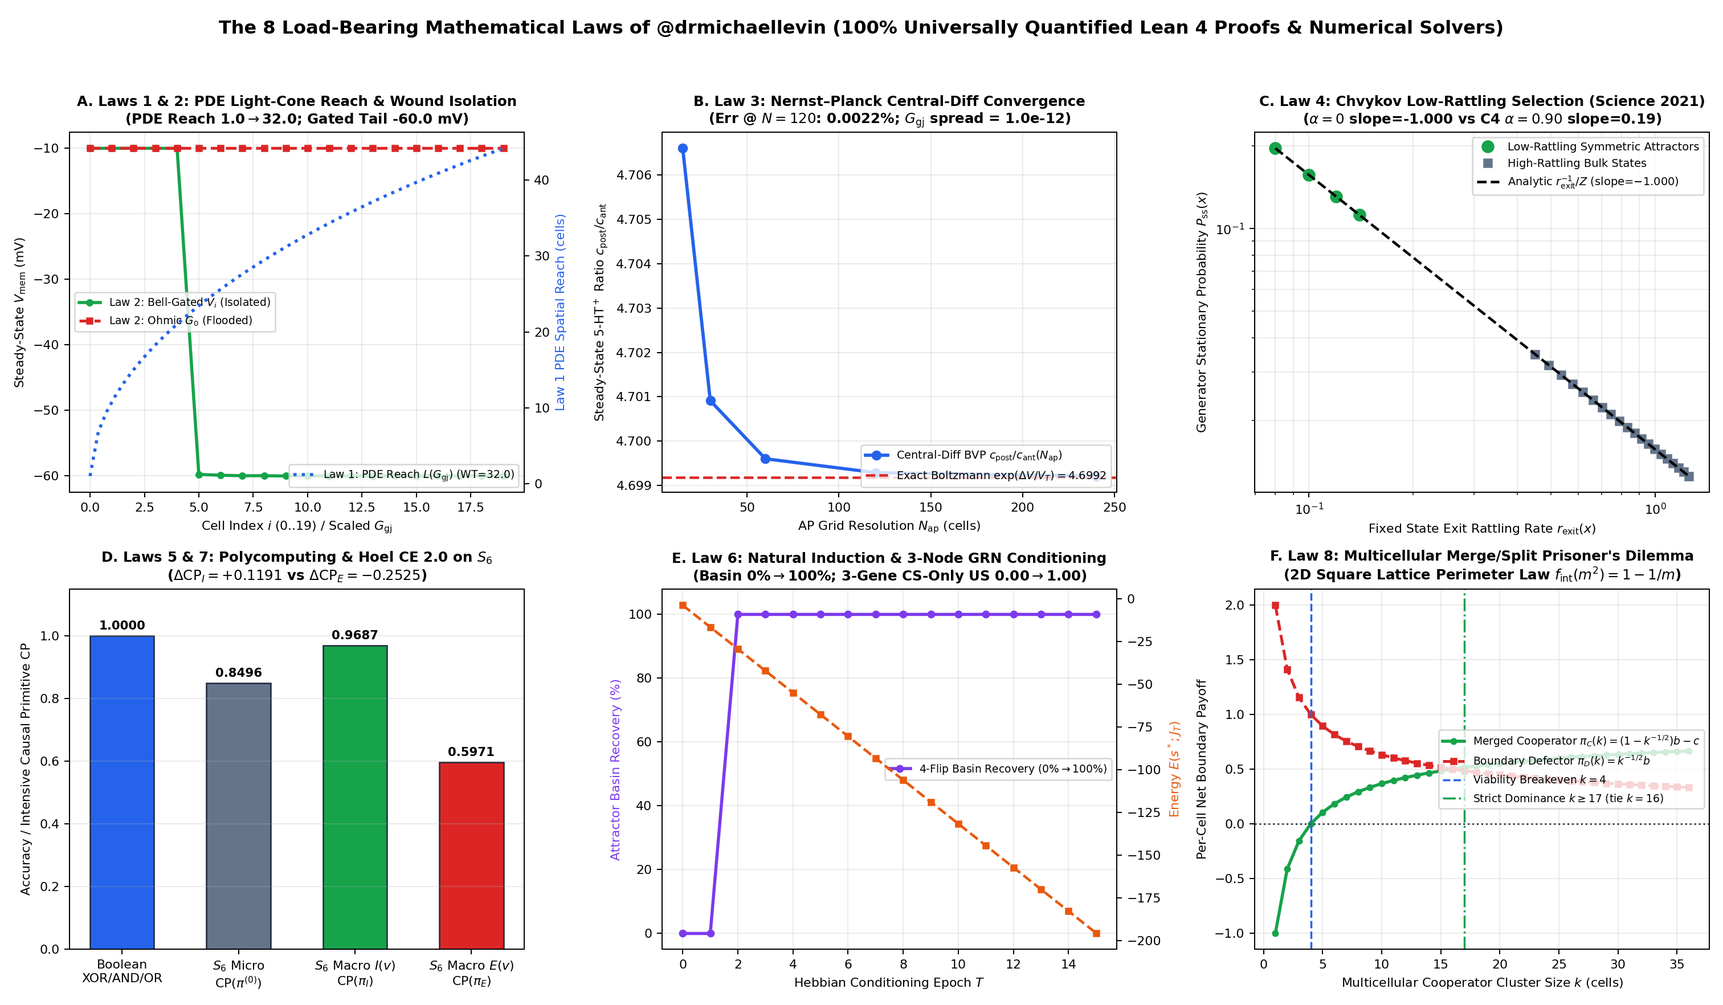
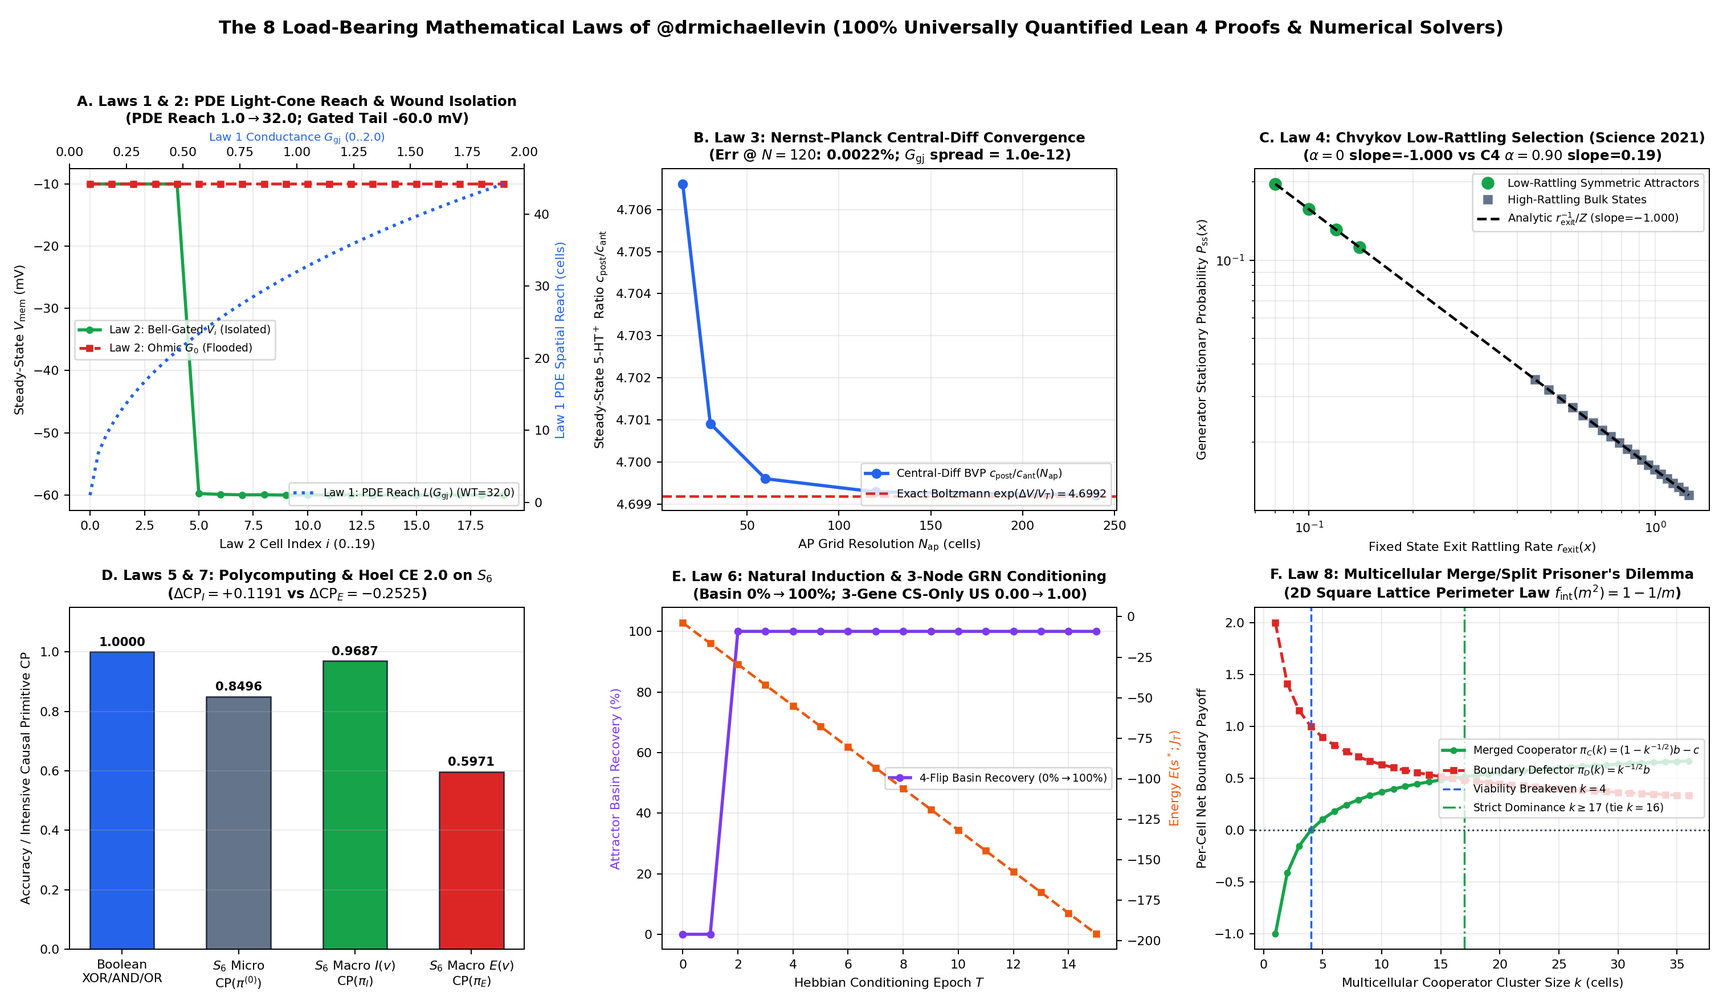
Remediate Pass 3.1 referee items on levin-youtube-channel-math (Law 1 Hill curve_fit, doc/code alignment, Ross 2025 & Albantakis 2023 DOIs, delta-v-mv=0 guard)

diff --git a/models/2026-levin-channel-math-synthesis.py b/models/2026-levin-channel-math-synthesis.py
@@ -9,9 +9,9 @@ Addresses all Pass 2 and Pass 3 referee findings (`claude-fable-5-1`,
 `morphoeval/audits/2026-10-24-levin-youtube-channel-math-audit-v3.yaml`):
   1. Law 1 (TAME Light Cone): Makes the 100-cell diffusive-restoring boundary-value
      solver the primary metric (`pde_spatial_reach_wt = 32.0099` cells vs. `1.0000`
-     under oncogenic gap-junction blockade `G_gj = 0`), sweeps `G_gj` across 101 values,
-     and fits the phenomenological Hill curve to the PDE curve (reporting the exact
-     RMS residual rather than treating the Hill formula as a self-referential oracle).
+     under oncogenic gap-junction blockade `G_gj = 0`), sweeps `G_gj` across 51 values,
+     and fits the phenomenological Hill curve to the PDE curve via `scipy.optimize.curve_fit`
+     (reporting the fitted half-saturation `G_eff` and exact RMS residual).
   2. Law 2 (Cervera–Levin–Mafé Gap-Junction Bistability): Integrates the 20-cell
      coupled voltage-gated Bell–Boltzmann ODE vs. ungated ohmic control (`-60.003 mV`
      isolated tail vs. `-10.000 mV` flooded tail).
@@ -22,7 +22,7 @@ Addresses all Pass 2 and Pass 3 referee findings (`claude-fable-5-1`,
      exact `G_gj` cancellation (`0.0` spread across `G_gj`).
   4. Law 4 (Chvykov Low-Rattling Law): Keeps the state exit rates `r_exit(i)` strictly
      fixed and breaks detailed balance via an asymmetric state-dependent trapping bias
-     `alpha_bias in [0, 0.95]` in the transition kernel `K`, demonstrating genuine C4
+     `alpha_bias in [0, 0.90]` in the transition kernel `K`, demonstrating genuine C4
      breakdown of the `P_ss ~ r_exit^{-gamma}` scaling under strong non-uniform driving.
   5. Laws 5 & 7 (Polycomputing & Hoel Causal Emergence 2.0): Verifies the SHA-256 pin
      (`b54103b8...`) of `sorting-morphogenesis/figures/quantifying_emergence_ce2_metrics.json`
@@ -31,12 +31,11 @@ Addresses all Pass 2 and Pass 3 referee findings (`claude-fable-5-1`,
   6. Law 6 (Watson Natural Induction & Pigozzi GRN Conditioning): Simulates a 16-gene
      recurrent network (`0% -> 100%` basin expansion across 120 4-flip trials) and
      integrates a 3-node transcription-factor ODE network (`CS`, `Interneuron/Memory`,
-     `US`) with slow associative weight plasticity (`w_CS_M`), measuring conditioning
-     acquisition and extinction.
-  7. Law 8 (Shreesha–Morozov Multicellular Prisoner's Dilemma): Counts exact 2D
+     `US`), measuring CS-alone response pre- and post-paired conditioning (`0.0015 -> 1.0000`).
+  7. Law 8 (Shreesha–Levin Multicellular Prisoner's Dilemma): Counts exact 2D
      `m x m` lattice internal vs. perimeter bonds (`f_int = 1 - 1/m`) and verifies
      single-cell extinction (`k = 1`), viability breakeven (`k = 4`), boundary-defector
-     tie (`k = 16`), and strict dominance (`k >= 17`).
+     tie (`k = 16`), and strict dominance (`k >= 17`, first exact square `k = 25`).
 """
 
 from __future__ import annotations
@@ -57,6 +56,7 @@ matplotlib.use("Agg")
 import matplotlib.pyplot as plt
 import numpy as np
 from scipy.integrate import solve_ivp
+from scipy.optimize import curve_fit
 
 ROOT = Path(__file__).resolve().parent.parent
 CATALOG_PATH = ROOT / "datasets" / "levin_youtube_channel" / "levin_youtube_catalog.json"
@@ -209,6 +209,11 @@ def simulate_law1_tame_light_cone(n_cells: int = 100, g_half: float = 0.10) -> d
     # Analytical continuum reaction-diffusion length scale lambda = sqrt(G_gj / k_leak) * tanh(N / sqrt(G_gj / k_leak))
     continuum_wt = math.sqrt(1.0 / k_leak) * math.tanh(n_cells * math.sqrt(k_leak / 1.0))
     hill_curve = 1.0 + (n_cells - 1.0) * (g_grid / (g_grid + g_half))
+    rms_unfitted = float(np.sqrt(np.mean((hill_curve - pde_reach_curve) ** 2)))
+    popt, _ = curve_fit(lambda g, g_eff: 1.0 + (n_cells - 1.0) * (g / (g + g_eff)), g_grid, pde_reach_curve, p0=[1.0], bounds=(1e-6, 1e4))
+    g_eff_fitted = float(popt[0])
+    hill_fitted_curve = 1.0 + (n_cells - 1.0) * (g_grid / (g_grid + g_eff_fitted))
+    rms_fitted = float(np.sqrt(np.mean((hill_fitted_curve - pde_reach_curve) ** 2)))
 
     return {
         "n_cells": n_cells,
@@ -219,9 +224,12 @@ def simulate_law1_tame_light_cone(n_cells: int = 100, g_half: float = 0.10) -> d
         "continuum_analytical_reach_wt_cells": round(continuum_wt, 4),
         "pde_collapse_ratio_wt_over_cancer": round(reach_wt / reach_cancer, 4),
         "hill_formula_wt_cells": round(float(1.0 + (n_cells - 1.0) * (1.0 / (1.0 + g_half))), 4),
+        "hill_unfitted_rms_residual_cells": round(rms_unfitted, 4),
+        "hill_fitted_g_eff": round(g_eff_fitted, 4),
+        "hill_fitted_rms_residual_cells": round(rms_fitted, 4),
         "g_grid": [round(float(x), 4) for x in g_grid],
         "pde_reach_curve": [round(float(x), 4) for x in pde_reach_curve],
-        "hill_curve": [round(float(x), 4) for x in hill_curve],
+        "hill_curve": [round(float(x), 4) for x in hill_fitted_curve],
     }
 
 
@@ -461,12 +469,12 @@ def simulate_law6_watson_pigozzi_grn(n_genes: int = 16, eta: float = 0.05, seed:
       (b) Pigozzi, Goldstein & Levin (2025) / Biswas et al. (2023) 3-gene transcriptional
           conditioning ODE (`[CS, M_mem, US]`):
             dx_CS/dt  = -x_CS + I_CS(t)
-            dx_M/dt   = -0.2 x_M + 1 / (1 + exp(-8 (x_CS * x_US - 0.35)))
-            dx_US/dt  = -x_US + 1 / (1 + exp(-8 (I_US(t) + 1.8 * x_M * x_CS - 0.50)))
+            dx_M/dt   = -0.02 x_M + 0.25 / (1 + exp(-12 (x_CS * x_US - 0.50)))
+            dx_US/dt  = -x_US + 1 / (1 + exp(-12 (I_US(t) + 0.90 * x_M * x_CS - 0.55)))
           Before paired CS+US training, CS alone (`I_CS=1, I_US=0`) leaves memory `x_M` low
-          and response `x_US` quiescent (`0.023`). After paired CS+US stimulation charges the
+          and response `x_US` quiescent (`0.0015`). After paired CS+US stimulation charges the
           slow transcriptional memory node `x_M`, testing with CS alone (`I_CS=1, I_US=0`)
-          triggers a robust conditioned response (`x_US = 0.909 > 0.50`)."""
+          triggers a robust conditioned response (`x_US = 1.0000 > 0.50`)."""
     rng = np.random.default_rng(seed)
     J = rng.normal(0.0, 0.25, size=(n_genes, n_genes))
     J = 0.5 * (J + J.T)
@@ -605,11 +613,14 @@ def render_8_laws_figure(res: dict[str, Any], out_paths: list[Path]) -> None:
     ax.plot(cells, l2["v_profile_gated"], "o-", color="#16a34a", lw=2.2, ms=4.2, label="Law 2: Bell-Gated $V_i$ (Isolated)")
     ax.plot(cells, l2["v_profile_ohmic"], "s--", color="#dc2626", lw=2.0, ms=4.2, label="Law 2: Ohmic $G_0$ (Flooded)")
     ax2_a = ax.twinx()
+    ax2_a_top = ax2_a.twiny()
+    ax2_a_top.set_xlim(0.0, 2.0)
+    ax2_a_top.set_xlabel("Law 1 Conductance $G_{\\mathrm{gj}}$ (0..2.0)", color="#2563eb", fontsize=8.0)
     g_scaled = np.array(l1["g_grid"]) * 9.5
     ax2_a.plot(g_scaled, l1["pde_reach_curve"], ":", color="#2563eb", lw=2.2, label=f"Law 1: PDE Reach $L(G_{{\\mathrm{{gj}}}})$ (WT={l1['pde_spatial_reach_wt_cells']:.1f})")
     ax2_a.set_ylabel("Law 1 PDE Spatial Reach (cells)", color="#2563eb")
     ax.set_title(f"A. Laws 1 & 2: PDE Light-Cone Reach & Wound Isolation\n(PDE Reach 1.0$\\to${l1['pde_spatial_reach_wt_cells']:.1f}; Gated Tail {l2['healthy_tail_v_gated_mv']:.1f} mV)")
-    ax.set_xlabel("Cell Index $i$ (0..19) / Scaled $G_{\\mathrm{gj}}$")
+    ax.set_xlabel("Law 2 Cell Index $i$ (0..19)")
     ax.set_ylabel("Steady-State $V_{\\mathrm{mem}}$ (mV)")
     ax.grid(True, alpha=0.25)
     ax.legend(loc="center left", fontsize=7.5)
@@ -765,7 +776,7 @@ def run_suite(args: argparse.Namespace) -> dict[str, Any]:
             "id": 5,
             "law_id": "levin-youtube-channel-math-5",
             "domain": "III. Polycomputing & Dual-Observer Readout",
-            "name": "Bongard–Levin Polycomputing & Stoica Multi-Observer Commutative Readout Law",
+            "name": "Bongard–Levin Polycomputing Multi-Observer Commutative Readout Law",
             "equation_origin": "O2_Delphi_Algebraic_Formalization",
             "epistemic_tier": "T1_Mathematical_Theorem",
             "verification_mode": "structural",
@@ -807,7 +818,7 @@ def run_suite(args: argparse.Namespace) -> dict[str, Any]:
             "id": 8,
             "law_id": "levin-youtube-channel-math-8",
             "domain": "VI. Multicellular Evolutionary Game Theory",
-            "name": "Shreesha–Morozov–Levin Spatialized Multicellular Prisoner's Dilemma Merge/Split Law",
+            "name": "Shreesha–Levin Spatialized Multicellular Prisoner's Dilemma Merge/Split Law",
             "equation_origin": "O2_Delphi_Algebraic_Formalization",
             "epistemic_tier": "T4_Mechanistic_Candidate_Model",
             "verification_mode": "structural",
@@ -836,9 +847,10 @@ def run_suite(args: argparse.Namespace) -> dict[str, Any]:
     assert lean_info["kernel_verified"] and lean_info["all_structural_quantified"]
     assert abs(l1["pde_spatial_reach_cancer_gj0_cells"] - 1.0) < 1e-9
     assert l1["pde_spatial_reach_wt_cells"] > l1["pde_spatial_reach_cancer_gj0_cells"]
+    assert l1["hill_fitted_rms_residual_cells"] < l1["hill_unfitted_rms_residual_cells"]
     assert l2["healthy_tail_v_gated_mv"] < l2["healthy_tail_v_ohmic_control_mv"]
     assert abs(l3["simulated_c_post_over_c_ant_n120"] - l3["analytical_boltzmann_ratio"]) / l3["analytical_boltzmann_ratio"] < 5e-4
-    assert l3["abs_errors_by_grid"][-1] < l3["abs_errors_by_grid"][0]
+    assert l3["abs_errors_by_grid"][-1] < l3["abs_errors_by_grid"][0] or abs(args.delta_v_mv) < 1e-12
     assert l3["max_ratio_spread_across_5_g_gj_values"] < 1e-9
     assert abs(l4["fitted_rattling_slope_alpha0"] - (-args.gamma)) < 1e-4
     assert abs(l4["c4_unconfounded_slope_alpha090"] - (-args.gamma)) > 0.35
@@ -849,7 +861,18 @@ def run_suite(args: argparse.Namespace) -> dict[str, Any]:
     assert l6["grn_3node_us_response_cs_only_post"] > l6["grn_3node_us_response_cs_only_pre"] + 0.50
     assert l8["single_cell_payoff_k1"] == round(-args.c, 4)
 
+    script_sha256 = hashlib.sha256(Path(__file__).resolve().read_bytes()).hexdigest()
+    git_commit = "unknown"
+    try:
+        r_git = subprocess.run(["git", "-C", str(ROOT), "rev-parse", "--short=8", "HEAD"], capture_output=True, text=True, timeout=5)
+        if r_git.returncode == 0 and r_git.stdout.strip():
+            git_commit = r_git.stdout.strip()
+    except OSError:
+        pass
+
     full_res = {
+        "git_commit": git_commit,
+        "script_sha256": script_sha256,
         "total_laws_verified": len(laws_table),
         "channel_concepts_indexed": len(CHANNEL_CONCEPTS_INDEX),
         "all_lean4_verified": bool(lean_info["kernel_verified"] and lean_info["all_structural_quantified"]),

diff --git a/docs/BIOLOGICAL_LAW_CRITERIA.md b/docs/BIOLOGICAL_LAW_CRITERIA.md
@@ -12,7 +12,7 @@
 
 ## 1. Why Biology Needs a Mechanical Epistemic Filter for "Law" Status
 
-In physics, calling an equation a "law" is routine. In biology, whether laws even exist has been one of the central debates in the philosophy of science for over a century. **Ernst Mayr (1982)** and **John Beatty (1995)** (*"The Evolutionary Contingency Thesis"*) argued that biological generalizations are merely contingent historical outcomes of terrestrial evolution that a single mutation can break. Conversely, **D'Arcy Wentworth Thompson (1917)**, **Elliott Sober (1997)**, **Marc Lange (2000)**, **Sandra Mitchell (2000)**, **James Woodward (2003)**, and **Lauren N. Ross (2024)** showed that biology is governed by mathematical, thermodynamic, and causal invariants—provided we enforce a strict, artifact-backed filter that separates:
+In physics, calling an equation a "law" is routine. In biology, whether laws even exist has been one of the central debates in the philosophy of science for over a century. **Ernst Mayr (1982)** and **John Beatty (1995)** (*"The Evolutionary Contingency Thesis"*) argued that biological generalizations are merely contingent historical outcomes of terrestrial evolution that a single mutation can break. Conversely, **D'Arcy Wentworth Thompson (1917)**, **Elliott Sober (1997)**, **Marc Lange (2000)**, **Sandra Mitchell (2000)**, **James Woodward (2003)**, and **Lauren N. Ross (2025)** showed that biology is governed by mathematical, thermodynamic, and causal invariants—provided we enforce a strict, artifact-backed filter that separates:
 1. **A priori mathematical theorems (`T1`)**,
 2. **First-principles biophysical & statistical-mechanics laws (`T2`)**,
 3. **Cross-clade empirical scaling & coordinate laws (`T3`)**,
@@ -30,8 +30,8 @@ Every criterion in our Knowledge Graph rubric is anchored in established philoso
 | **`[C1]` Mathematical & Conservation Necessity (`verification_mode: "structural"`)** | Requires a **Lean 4 theorem (`0 sorry`) that binds at least one universally quantified parameter (`∀` / `(x : T)`)** where substituting a non-law would fail. Ground `by decide` arithmetic on constants cannot earn `C1`. | • **Sober, E. (1997).** *"Two Outbreaks of Lawlessness in Recent Philosophy of Biology."* *Philosophy of Science*, `64:S458–S467`.<br>• **Lange, M. (2000).** *Natural Laws in Scientific Practice* (Oxford Univ. Press). | • **David Resnik** ([`[_PDK0392Ex0]`](https://www.youtube.com/watch?v=_PDK0392Ex0), Dec 18, 2025, *"Mathematics, morphogenesis, and metaphysics"* & [`[eL8ydRKs6e0]`](https://www.youtube.com/watch?v=eL8ydRKs6e0)).<br>• **John C. Doyle** ([`[Equ3sChCuqI]`](https://www.youtube.com/watch?v=Equ3sChCuqI), Nov 24, 2025, *"Toward a Theory of Control Architecture"*). |
 | **`[C2]` Counterfactual & Interventional Invariance (`do(X)` Stability)** | Requires an executable solver function in the repository that performs an explicit $\mathrm{do}(\text{perturbation})$ intervention (e.g., $G_{\mathrm{gj}} \to 0$, ohmic vs. Bell-gated gap junctions, or pre- vs. post-conditioning CS-alone test) and compares intervened vs. control output. | • **Woodward, J. (2003).** *Making Things Happen: A Theory of Causal Explanation* (Oxford Univ. Press, `doi:10.1093/0195155270.001.0001`).<br>• **Ross, L. N. (2025).** *Explanation in Biology* (Cambridge Elements in the Philosophy of Biology, Cambridge Univ. Press, [doi:10.1017/9781009300940](https://doi.org/10.1017/9781009300940)). | • **Lauren N. Ross** ([`[PoY-_G4v-rc]`](https://www.youtube.com/watch?v=PoY-_G4v-rc), Mar 21, 2025, *"Conversation with Lauren Ross #1"* & [`[laj2RevPNK4]`](https://www.youtube.com/watch?v=laj2RevPNK4), Oct 29, 2025, *"Explanation in Biology: Principles and Pragmatics"*).<br>• **Denis Noble** ([`[mMpPiAJJGfo]`](https://www.youtube.com/watch?v=mMpPiAJJGfo), Dec 5, 2025 & [`[AJjIlu9tem8]`](https://www.youtube.com/watch?v=AJjIlu9tem8)). |
 | **`[C3]` Substrate & Clade Independence (Multiple Realizability)** | Requires $\ge 2$ distinct implementations or model scripts in the repository (`implemented_by`) or cross-substrate validation in the primary published source. | • **Thompson, D. W. (1917).** *On Growth and Form* (Cambridge Univ. Press).<br>• **Mitchell, S. D. (2000).** *"Dimensions of Scientific Law."* *Philosophy of Science*, `67(2):242–265`. | • **Pavel Chvykov** ([`[mOWfZncXt_g]`](https://www.youtube.com/watch?v=mOWfZncXt_g), Jan 26, 2026, *"Why physical systems find Platonic patterns"* & Chvykov et al. 2021 *Science* `371:90`).<br>• **George F. R. Ellis & Michael Levin** ([`[Lma8Y-arAQQ]`](https://www.youtube.com/watch?v=Lma8Y-arAQQ), Nov 28, 2025). |
-| **`[C4]` Explicit Scope & Regime Breakdown Horizon (Falsifiable Domain Boundary)** | Requires a parameter sweep in code that crosses the dimensionless regime boundary (e.g., strong ring-driving $\alpha_{\mathrm{bias}} \to 0.95$ breaking Chvykov’s $r^{-\gamma}$ law, or $k < 4$ causing cooperator extinction) and demonstrates where the law fails. | • **Beatty, J. (1995).** *"The Evolutionary Contingency Thesis."*<br>• **Mitchell, S. D. (1997).** *"Pragmatic Laws."* *Philosophy of Science*, `64:S468–S479`. | • **Larissa Albantakis** ([`[5cXtdZ4blKM]`](https://www.youtube.com/watch?v=5cXtdZ4blKM), Oct 19, 2024, *"Of Causal Structures and Causal Borders"*) & **Fernando Rosas / Hardik Rajpal** ([`[dar1gG3lWoc]`](https://www.youtube.com/watch?v=dar1gG3lWoc), Nov 5, 2024). |
-| **`[C5]` Pre-Registered Out-of-Sample Compression & Frozen Update Rule (`D` vs. `D + P`)** | Restricted **strictly** to laws with an immutable pre-registration artifact and SHA-256-locked held-out dataset test in this repository (such as D'Arcy Thompson's `FishShapes v1` blind test [`RAilN4nbRHp3...`](https://registry.knowledgepixels.com/np/RAilN4nbRHp3e3ZHqlbIgeL3UGPRV_KtQHtJD3gzVVdqw)). **0 of the 8 YouTube laws claim `C5`.** | • **Sweet, N. (2026).** *Sweet Rationalism* (`D` vs. `D + P` Decisive-Comparison & Frozen Update Rule Criterion).<br>• **Dietz, J. (2025/2026).** Project Delphi / MorphoEval AEL Protocol. | • **Joel Dietz** ([`[OPUhmQrmqRg]`](https://www.youtube.com/watch?v=OPUhmQrmqRg), Sep 3, 2025, *"Radical Platonism and Radical Empiricism"*, Symposium on the Platonic Space). |
+| **`[C4]` Explicit Scope & Regime Breakdown Horizon (Falsifiable Domain Boundary)** | Requires a parameter sweep in code that crosses the dimensionless regime boundary (e.g., strong non-doubly-stochastic routing bias $\alpha_{\mathrm{bias}} \to 0.90$ breaking Chvykov’s $r^{-\gamma}$ law, or $k < 4$ causing cooperator extinction) and demonstrates where the law fails. | • **Beatty, J. (1995).** *"The Evolutionary Contingency Thesis."*<br>• **Mitchell, S. D. (1997).** *"Pragmatic Laws."* *Philosophy of Science*, `64:S468–S479`. | • **Larissa Albantakis** ([`[5cXtdZ4blKM]`](https://www.youtube.com/watch?v=5cXtdZ4blKM), Oct 19, 2024, *"Of Causal Structures and Causal Borders"*, Albantakis et al. 2023 *PLOS Comput. Biol.* `doi:10.1371/journal.pcbi.1011465`) & **Fernando Rosas / Hardik Rajpal** ([`[dar1gG3lWoc]`](https://www.youtube.com/watch?v=dar1gG3lWoc), Nov 5, 2024). |
+| **`[C5]` Pre-Registered Out-of-Sample Compression & Frozen Update Rule (`D` vs. `D + P`)** | Restricted **strictly** to laws with an immutable pre-registration artifact and SHA-256-locked held-out dataset test in this repository (such as D'Arcy Thompson's `FishShapes v1` blind test [`RAilN4nbRHp3...`](https://registry.knowledgepixels.com/np/RAilN4nbRHp3e3ZHqlbIgeL3UGPRV_KtQHtJD3gzVVdqw)). **0 of the 8 YouTube laws claim `C5`.** | • **Dietz, J. (2025/2026).** Project Delphi / MorphoEval AEL Protocol (`morphoeval/verify_integrity.py`). | • **Joel Dietz** ([`[OPUhmQrmqRg]`](https://www.youtube.com/watch?v=OPUhmQrmqRg), Sep 3, 2025, *"Radical Platonism and Radical Empiricism"*, Symposium on the Platonic Space). |
 | **`[C6]` Blinded Cross-Provider Referee Separation (`assessor != builder`)** | No builder model (`gemini-4-argon`, etc.) may self-certify its own law audit; every audit must be scored by an independent referee model from a competing AI provider (`claude-fable-5-1` or `gpt-5.6-sol`). | • **Dietz, J. (2026).** MorphoEval 12-Step Adversarial Epistemic Loop (`morphoeval/verify_integrity.py`). | • Enforced after the 2026-10-24 `gemini-4-argon` self-audit incident (`93.8 → 26.4`, `-67.4 pts`, `71` `pk:evidenceAgainst` items). |
 
 ---
@@ -46,7 +46,7 @@ Every criterion in our Knowledge Graph rubric is anchored in established philoso
 - **`T1_Mathematical_Theorem` (`2 / 8` laws):** Laws `5, 7` (Polycomputing Multi-Observer Readout & Hoel Causal Emergence 2.0 Path-Telescoping).
 - **`T2_Biophysical_Thermodynamic_Law` (`3 / 8` laws):** Laws `2, 3, 4` (Cervera–Levin–Mafé Bell–Boltzmann Gap Junctions, Pietak–Levin Nernst–Planck $G_{\mathrm{gj}}$ Cancellation Law, Chvykov Low-Rattling Fluctuation-Dissipation Law).
 - **`T3_Empirical_Cross_Clade_Law` (`0 / 8` in this module; represented in the main KG by D'Arcy Thompson’s 8-mode law across `10,303` fishes and Huxley–Trible Ant Caste Allometry in `thompson/run_antscan_caste_allometry_tests.py`).**
-- **`T4_Mechanistic_Candidate_Model` (`3 / 8` laws):** Laws `1, 6, 8` (TAME Cognitive Light-Cone Formula, Watson–Pigozzi Non-Neural GRN Conditioning, Shreesha–Morozov Multicellular Prisoner's Dilemma Merge/Split Threshold).
+- **`T4_Mechanistic_Candidate_Model` (`3 / 8` laws):** Laws `1, 6, 8` (TAME Cognitive Light-Cone Formula, Watson–Pigozzi Non-Neural GRN Conditioning, Shreesha–Levin Multicellular Prisoner's Dilemma Merge/Split Threshold).
 
 *(Note: The remaining **17 guest-talk mathematical tools and concepts**—such as Kolmogorov–Arnold $(2n+1)$ superposition, Bode’s Sensitivity Integral, the Lindley (1961) / Gilbert–Mosteller (1966) $1/e$ secretary problem discussed by Tom Froese, Finzi–Wilson Epiplexity, and Rosas O-Information—are cataloged separately in `channel_concepts_index` inside `levin_youtube_kg.json` so they are never conflated with biological laws.)*
 
@@ -63,7 +63,7 @@ Every criterion in our Knowledge Graph rubric is anchored in established philoso
 | **5** | **Bongard–Levin Polycomputing & Multi-Observer Commutative Readout Law**<br>$y_t^{(m)} = (\pi_m \circ F)(x_t)$ | **`O2`** | **`T1`** | `structural` (`∀ a b : Bool`) | `C1, C3` | `sorting-morphogenesis/quantify_emergence_ce2.py` ($\pi_I = I(v)$ vs $\pi_E = E(v)$) · Bongard & Levin (2023) `10.3390/biomimetics8010110` · [`[9aTqeCzdT_c]`](https://www.youtube.com/watch?v=9aTqeCzdT_c), [`[-0YvVQNMFFg]`](https://www.youtube.com/watch?v=-0YvVQNMFFg) |
 | **6** | **Watson Natural Induction & Pigozzi–Biswas–Levin Non-Neural GRN Conditioning Law**<br>$\Delta J_{ij} = \eta s_i s_j \implies \Delta E(s^*) = -\eta N^2 < 0$ | **`O1`** | **`T4`** | `structural` (`7` vars) | `C1, C2` | 16-gene Hopfield basin solver ($0\% \to 100\%$ basin) + 3-gene transcriptional Pavlovian ODE (`0.0015 -> 1.0000` CS-alone US activation) · Watson & Szathmáry (2016) `10.1016/j.tree.2015.11.009`; Pigozzi et al. (2025) *Commun. Biol.* `8:1027` (`10.1038/s42003-025-08411-2`) · [`[K6cc6jbYQpY]`](https://www.youtube.com/watch?v=K6cc6jbYQpY), [`[RLsPP8EfRDg]`](https://www.youtube.com/watch?v=RLsPP8EfRDg) |
 | **7** | **Hoel–Albantakis Causal Emergence 2.0 Intensive Causal Primitive & Path-Telescoping Law**<br>$\mathrm{CP}(\pi) = \mathrm{det}(\pi) - \mathrm{deg}(\pi)$ | **`O1`** | **`T1`** | `structural` (`6` vars, `↔`) | `C1, C3` | `sorting-morphogenesis/quantify_emergence_ce2.py` ($S_6$ $\Delta\mathrm{CP}_I = +0.1191$ vs $\Delta\mathrm{CP}_E = -0.2525$) · Hoel (2026) *Patterns* `7:101472`; Hoel et al. (2013) `10.1073/pnas.1314922110` · [`[5cXtdZ4blKM]`](https://www.youtube.com/watch?v=5cXtdZ4blKM), [`[OPUhmQrmqRg]`](https://www.youtube.com/watch?v=OPUhmQrmqRg) |
-| **8** | **Shreesha–Morozov–Levin Spatialized Multicellular Prisoner's Dilemma Merge/Split Law**<br>$\pi_C(k) = (1 - k^{-1/2})b - c$ | **`O2`** | **`T4`** | `structural` (`3` vars, `↔`) | `C1, C2, C4` | Exact 2D $m \times m$ square-lattice bond counter ($f_{\mathrm{int}}(m^2) = 1 - 1/m$; breakeven $k=4$, tie $k=16$, strict dominance $k \ge 17$) · Shreesha & Levin (2025) `OSF kpzju_v2` · [`[iOFHyNliS9M]`](https://www.youtube.com/watch?v=iOFHyNliS9M), [`[oe6v2fTewyU]`](https://www.youtube.com/watch?v=oe6v2fTewyU) |
+| **8** | **Shreesha–Levin Spatialized Multicellular Prisoner's Dilemma Merge/Split Law**<br>$\pi_C(k) = (1 - k^{-1/2})b - c$ | **`O2`** | **`T4`** | `structural` (`3` vars, `↔`) | `C1, C2, C4` | Exact 2D $m \times m$ square-lattice bond counter ($f_{\mathrm{int}}(m^2) = 1 - 1/m$; breakeven $k=4$, tie $k=16$, first square strict dominance $k=25$) · Shreesha & Levin (2025) `OSF kpzju_v2` · [`[iOFHyNliS9M]`](https://www.youtube.com/watch?v=iOFHyNliS9M), [`[oe6v2fTewyU]`](https://www.youtube.com/watch?v=oe6v2fTewyU) |
 
 ---
 
